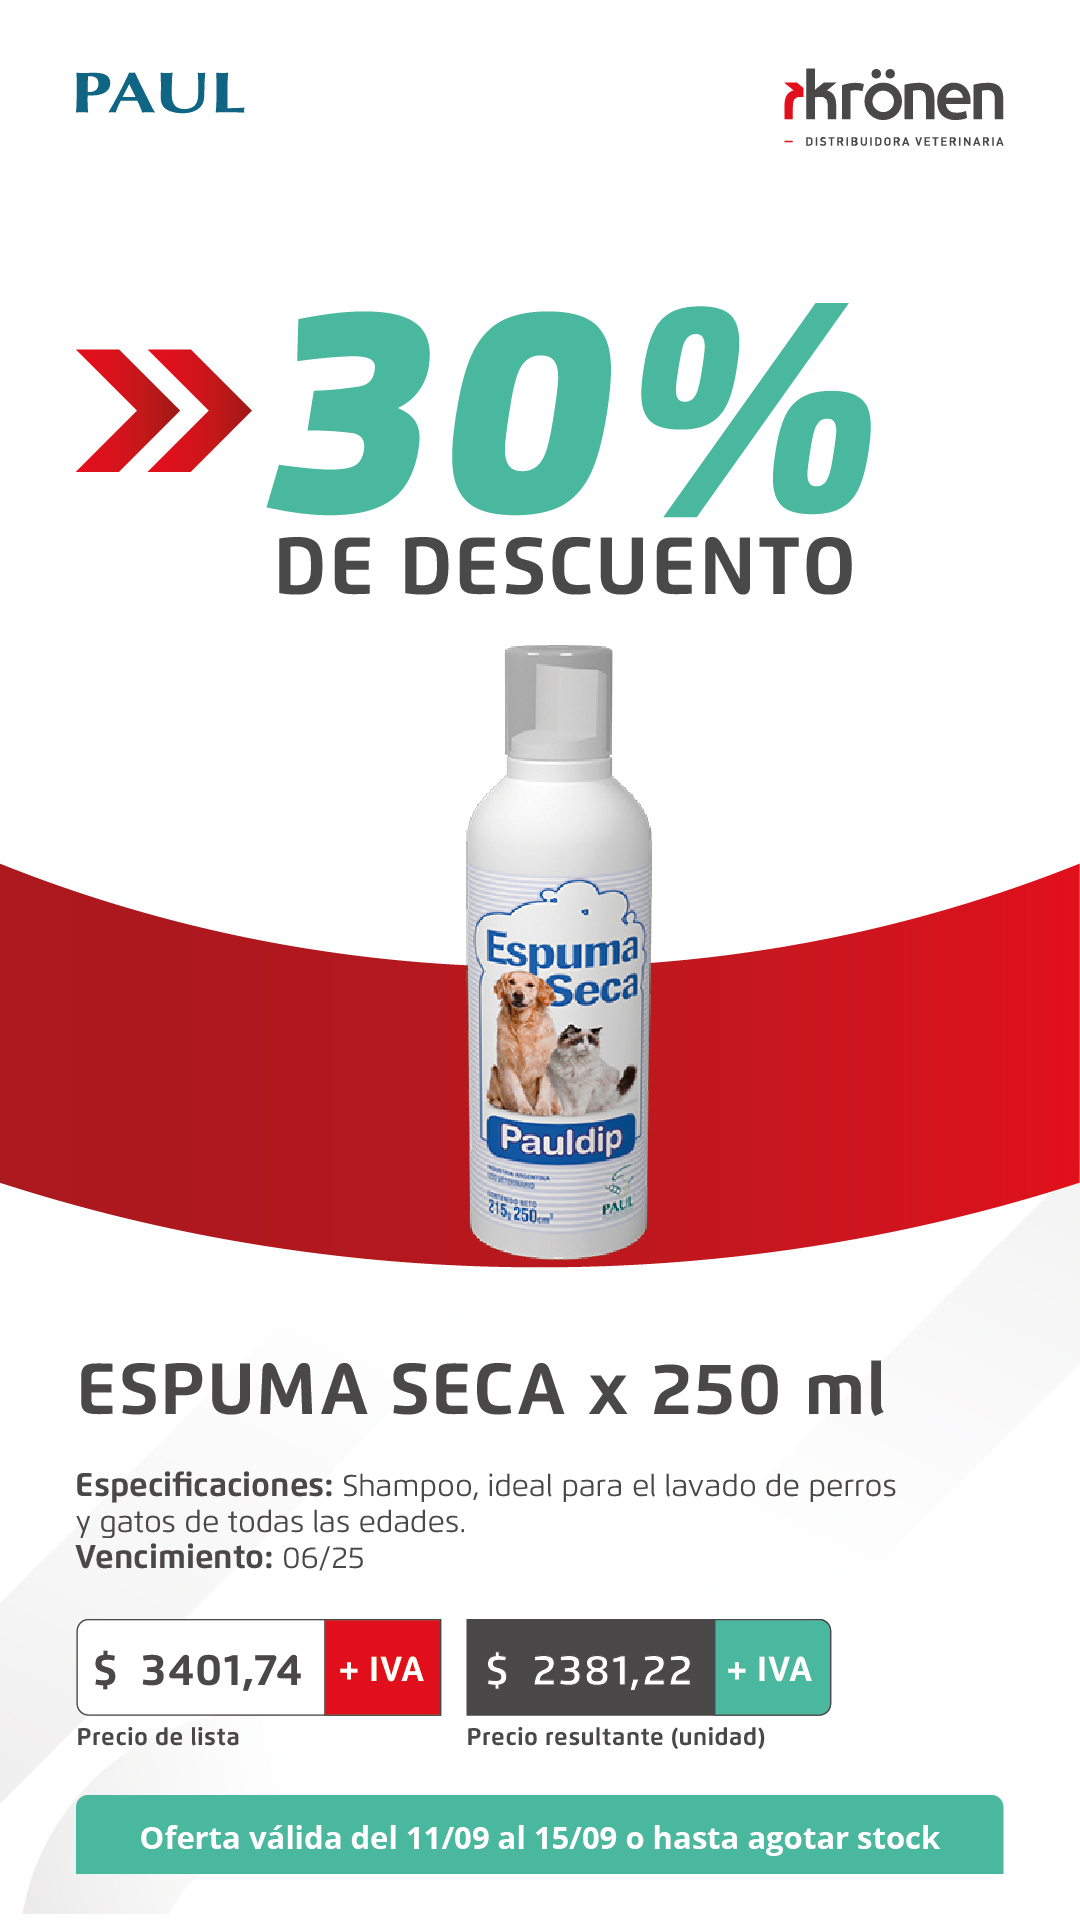
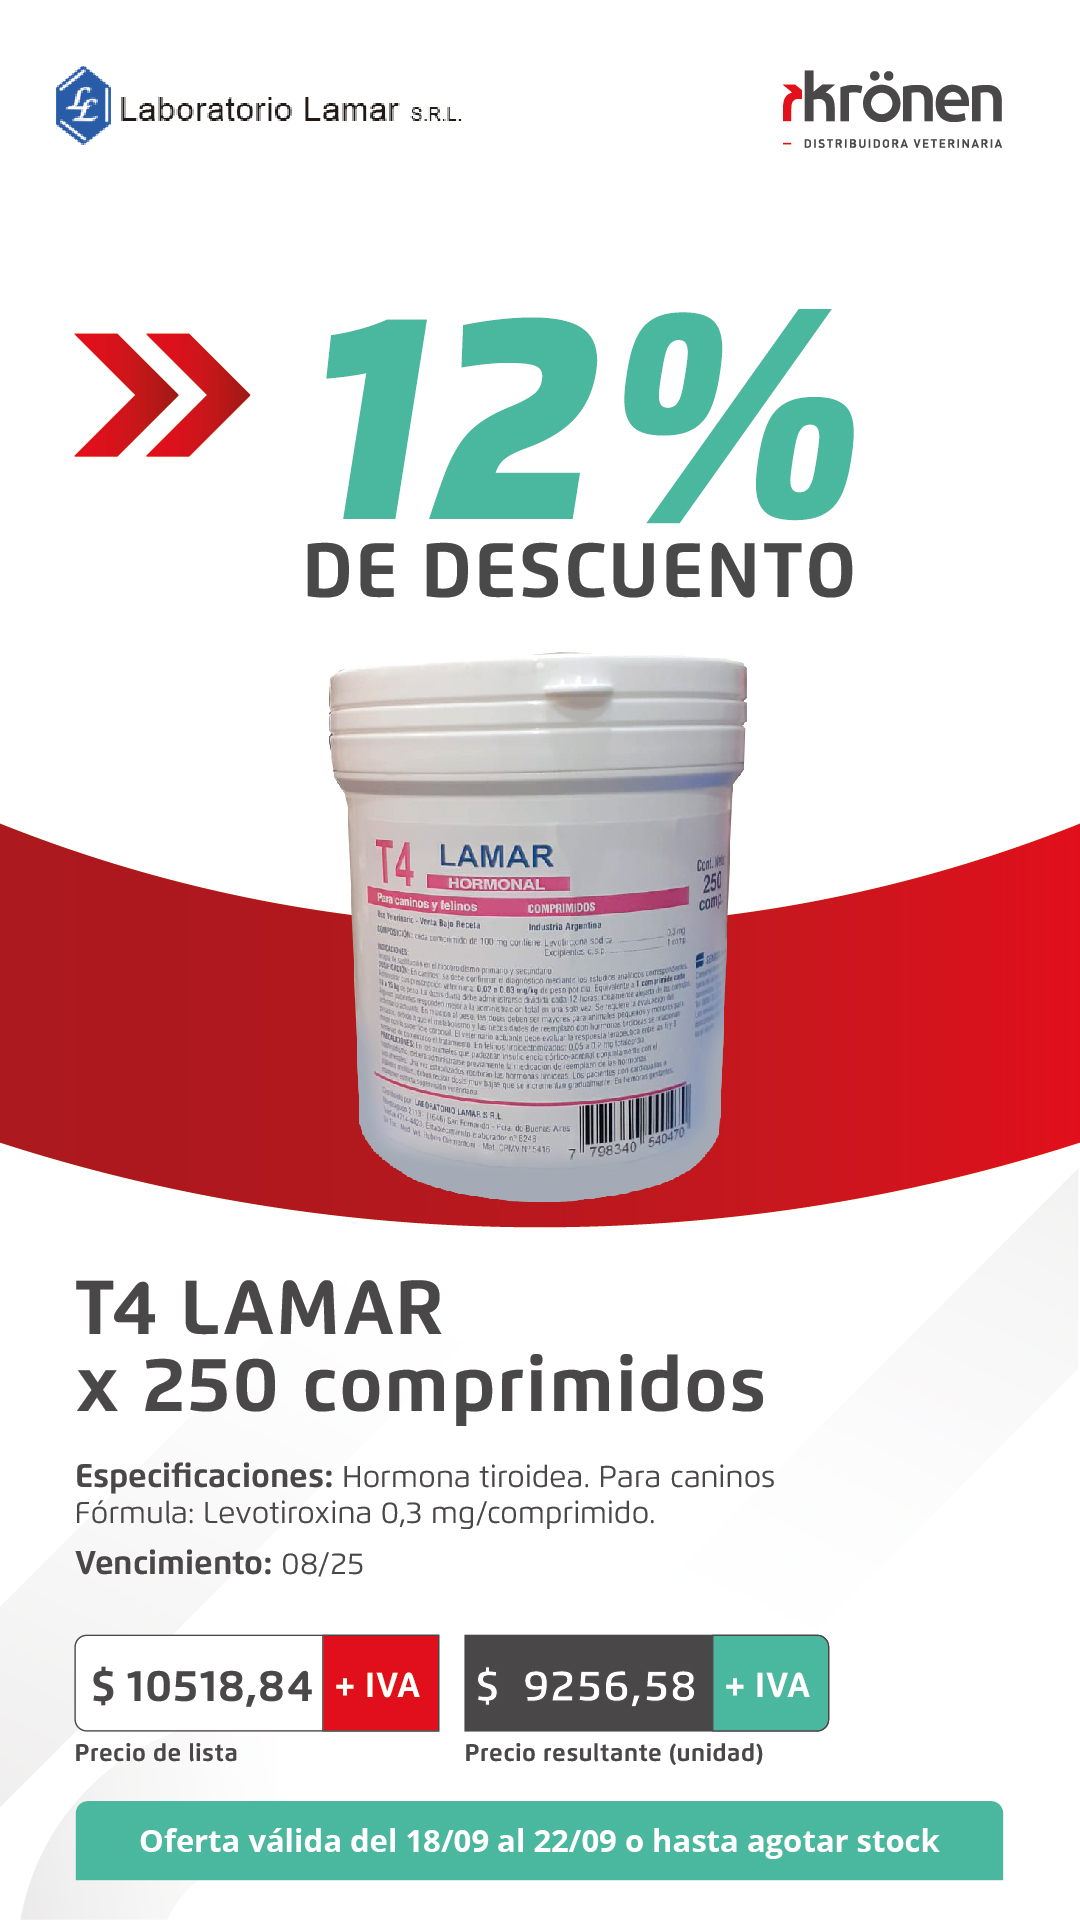
nuevas ofertas

diff --git a/src/components/index.js b/src/components/index.js
@@ -11,20 +11,16 @@ import img09 from "./ofertas-mensuales/09.jpg";
 import img10 from "./ofertas-mensuales/10.jpg";
 import img11 from "./ofertas-mensuales/11.jpg";
 import img12 from "./ofertas-mensuales/12.jpg";
+import img13 from "./ofertas-mensuales/13.jpg";
 // Ofertas Semanales
 import image1 from "./ofertas-semanales/01.jpg";
 import image2 from "./ofertas-semanales/02.jpg";
 import image3 from "./ofertas-semanales/03.jpg";
-import image4 from "./ofertas-semanales/04.jpg";
-import image5 from "./ofertas-semanales/05.jpg";
-
 
 export const OfertasSemanalesImg = [
   image1,
   image2,
   image3,
-  image4,
-  image5,
 ];
 
 export const OfertasMensualesImg = [
@@ -40,4 +36,5 @@ export const OfertasMensualesImg = [
   img10,
   img11,
   img12,
+  img13,
 ];
